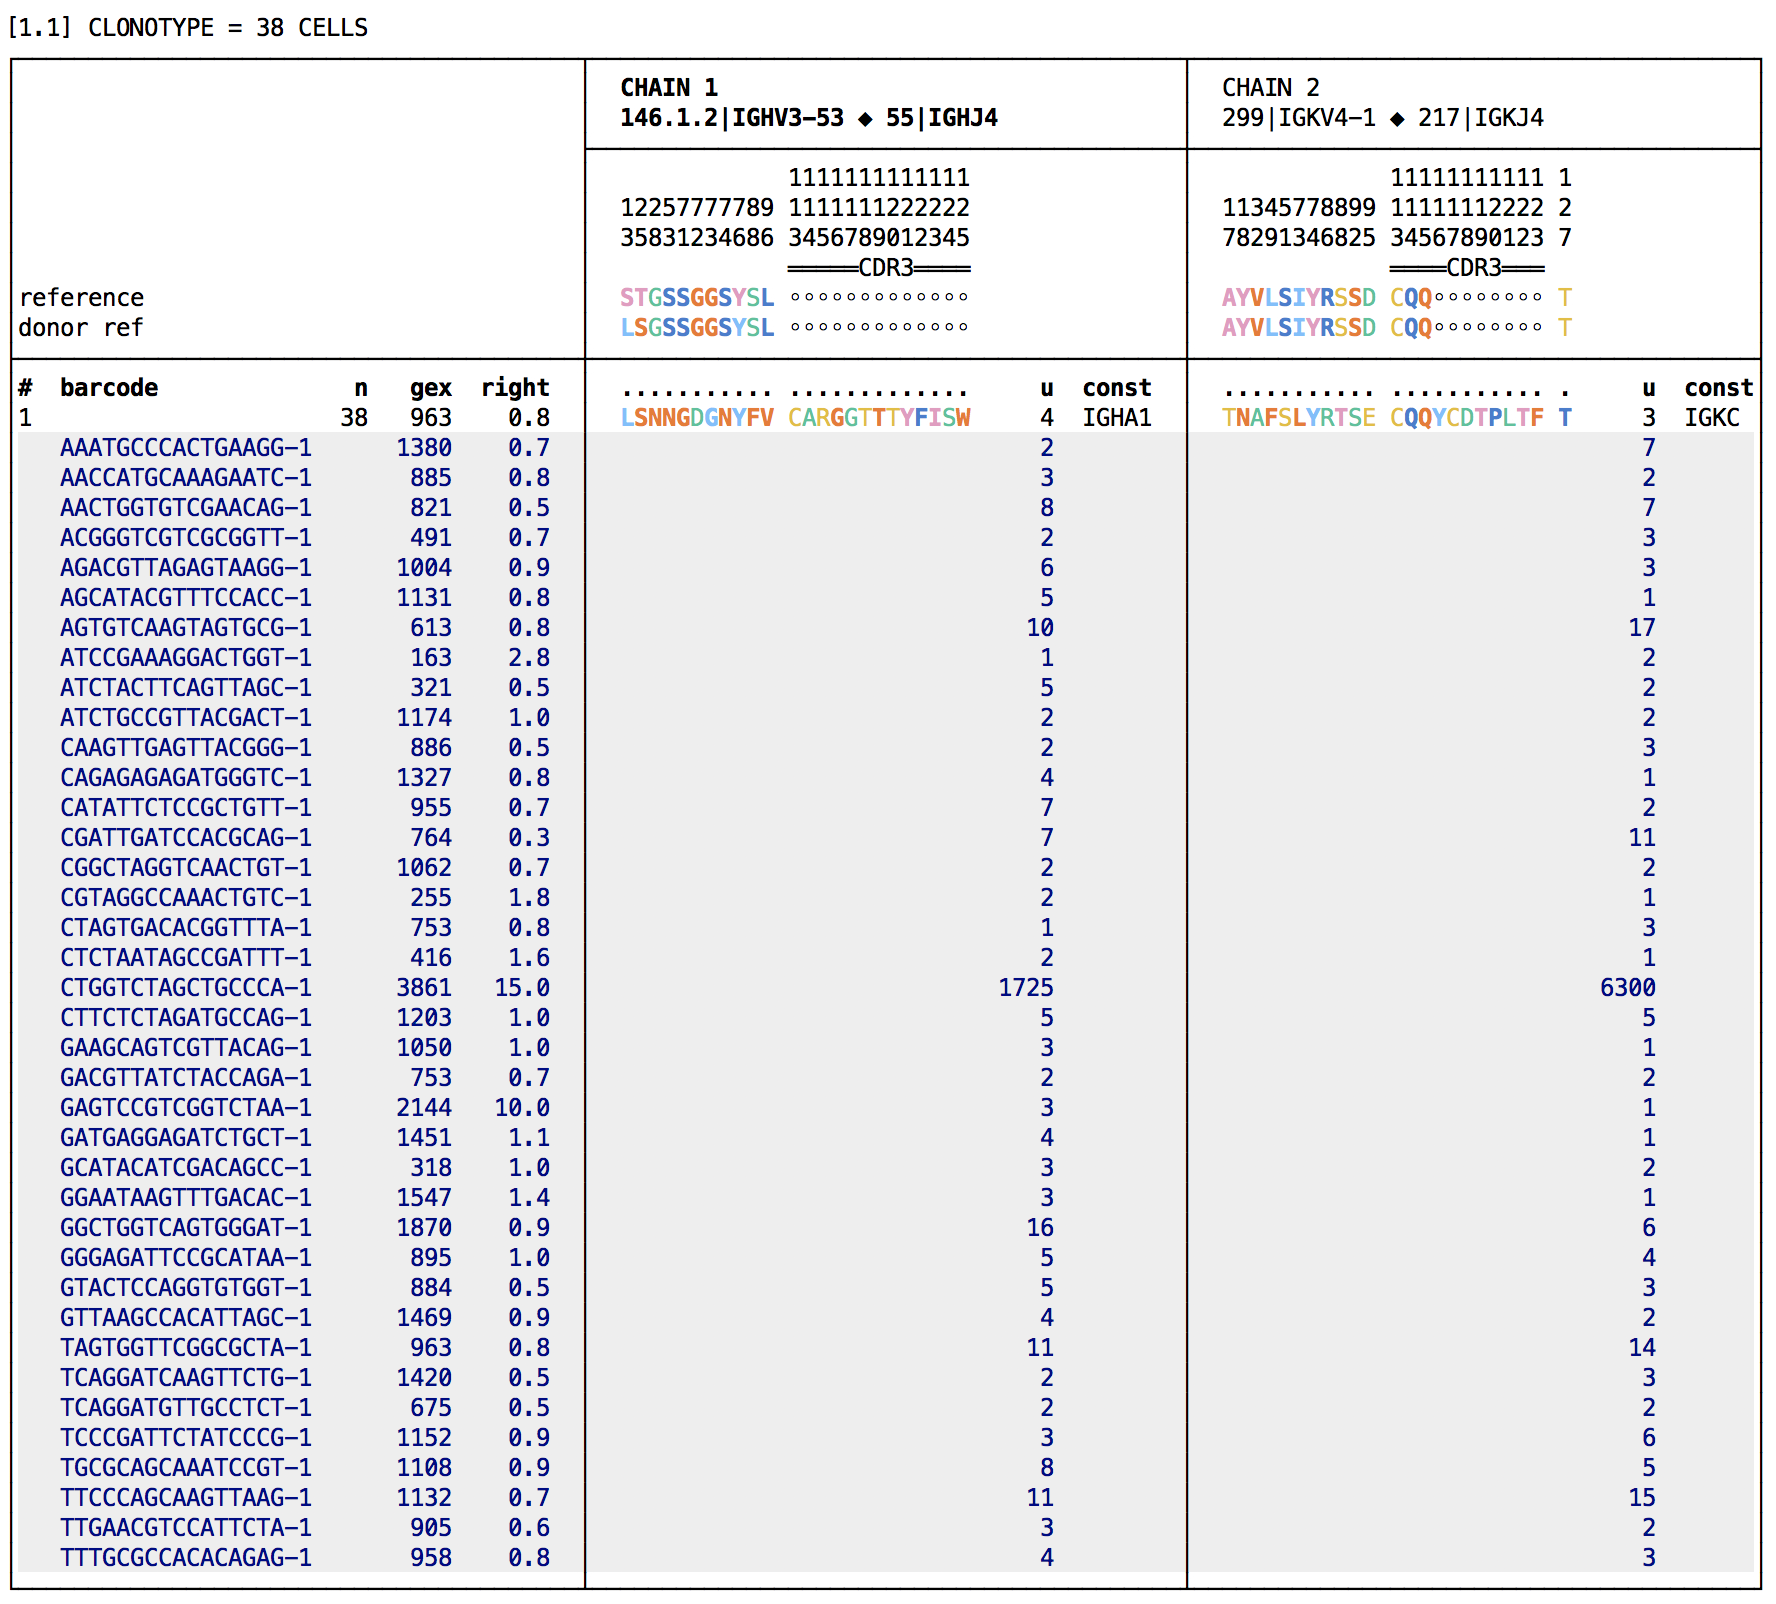
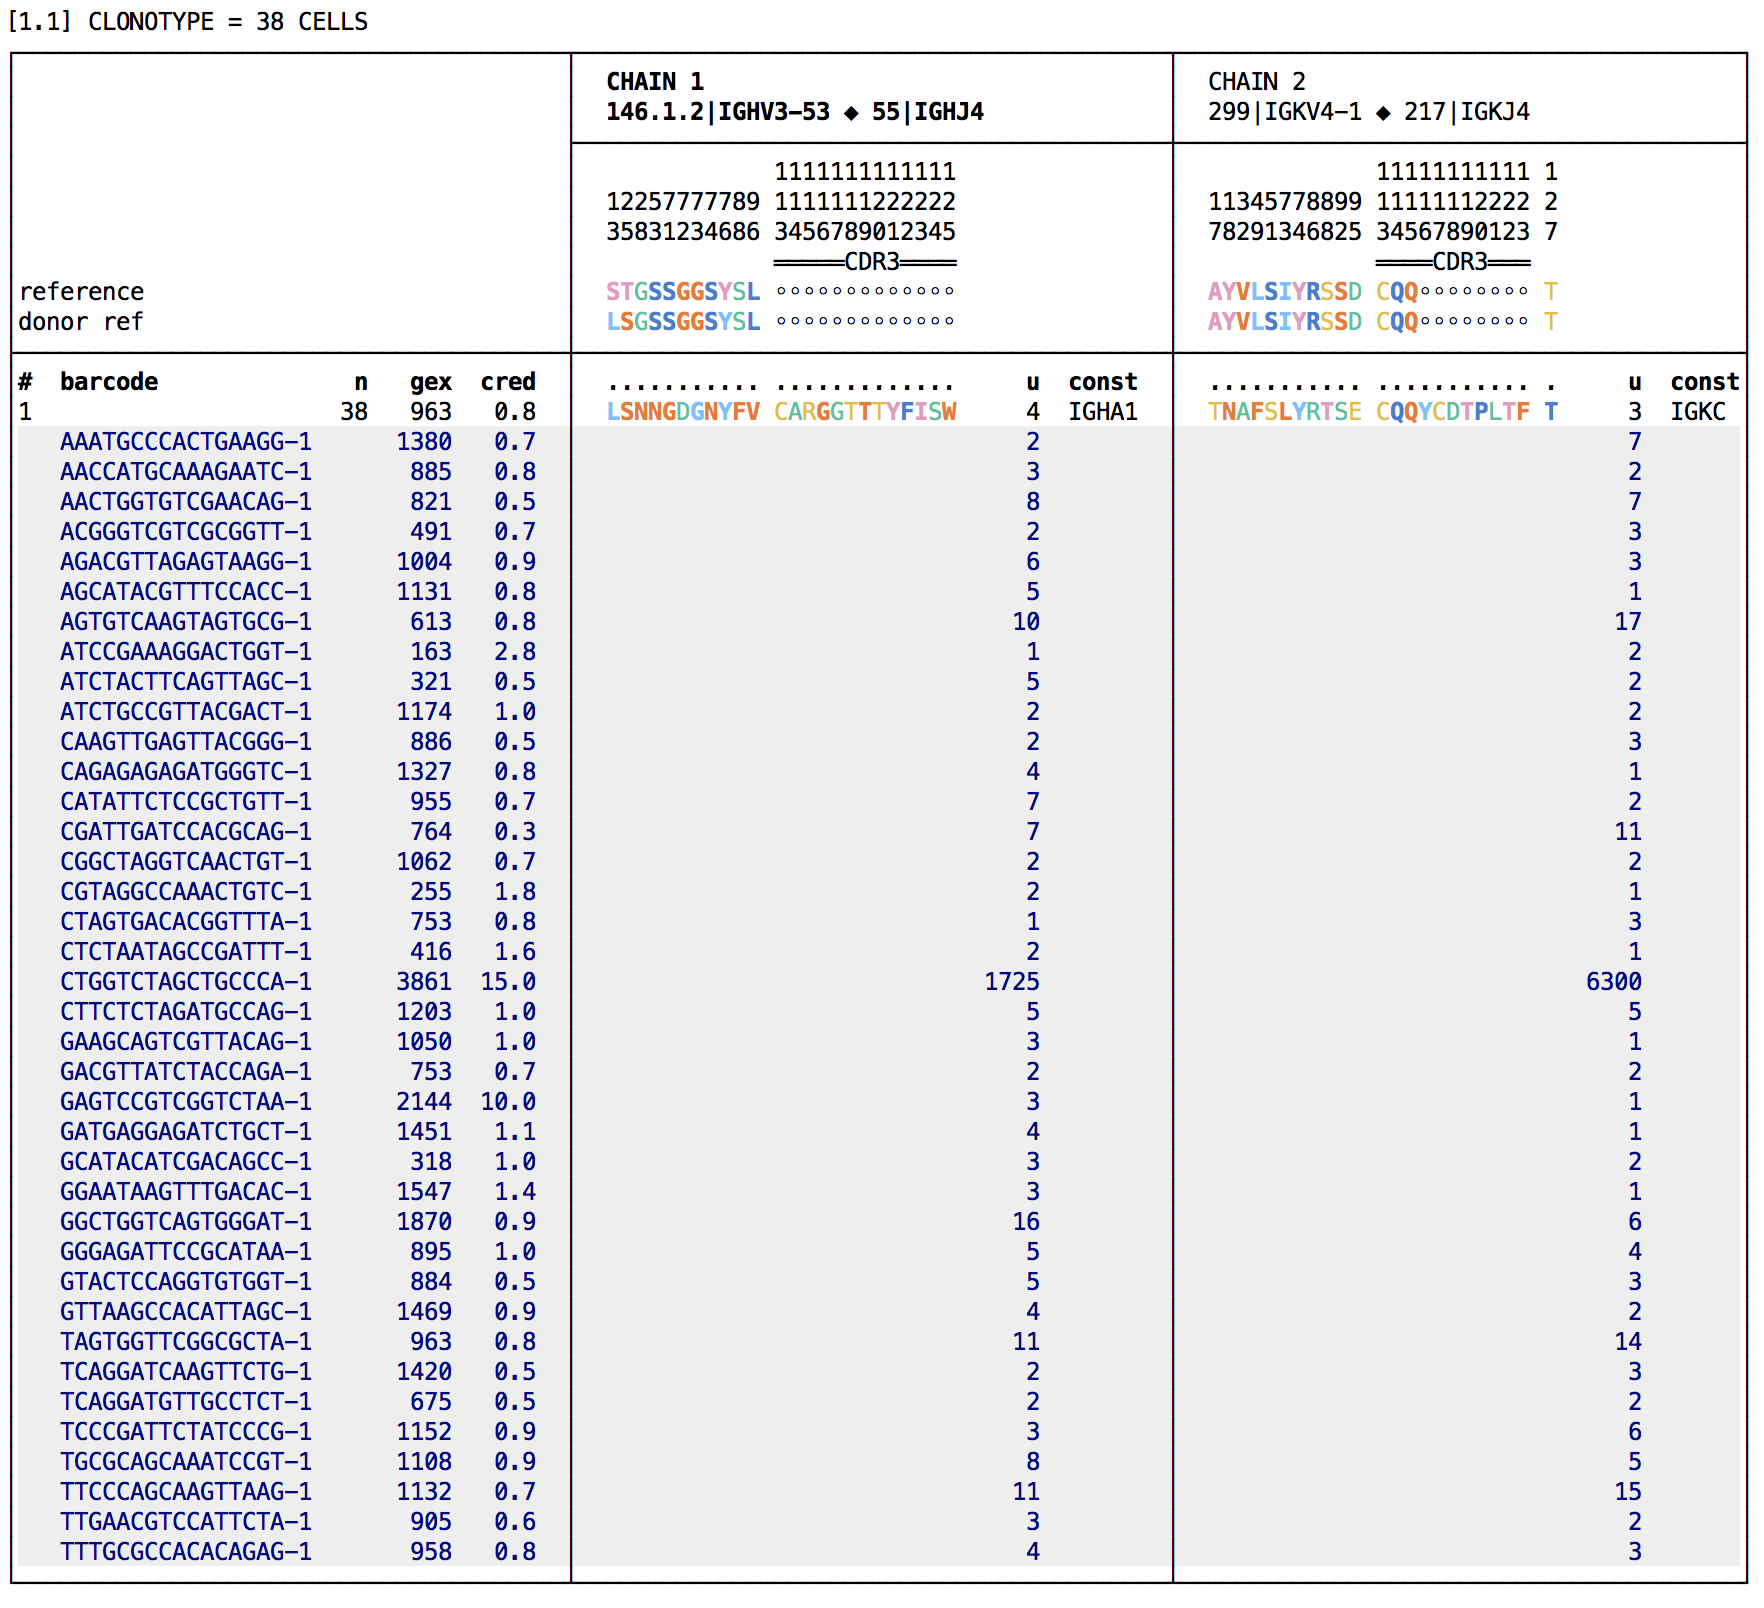
change "right" to "cred"

Changed region(s): [[0.0, 0.0, 0.9977, 0.9975]]

diff --git a/src/print_clonotypes.rs b/src/print_clonotypes.rs
@@ -470,11 +470,11 @@ pub fn print_clonotypes(
 
                 let mut stats = Vec::<(String, Vec<f64>)>::new();
 
-                // Compute "right" stats.
+                // Compute "cred" stats.
 
-                let mut right = vec![Vec::<String>::new(); lvars.len()];
+                let mut cred = vec![Vec::<String>::new(); lvars.len()];
                 for k in 0..lvars.len() {
-                    if lvars[k] == "right".to_string() {
+                    if lvars[k] == "cred".to_string() {
                         for u in 0..nexacts {
                             let clonotype_id = exacts[u];
                             let ex = &exact_clonotypes[clonotype_id];
@@ -482,7 +482,7 @@ pub fn print_clonotypes(
                                 let bc = &ex.clones[l][0].barcode;
                                 let li = ex.clones[l][0].dataset_index;
                                 if gex_info.pca[li].contains_key(&bc.clone()) {
-                                    let mut rights = 0;
+                                    let mut creds = 0;
                                     let mut z = Vec::<(f64, String)>::new();
                                     let x = &gex_info.pca[li][&bc.clone()];
                                     for y in gex_info.pca[li].iter() {
@@ -496,13 +496,13 @@ pub fn print_clonotypes(
                                     let top = n_vdj_gex[li];
                                     for i in 0..top {
                                         if bin_member(&vdj_cells[li], &z[i].1) {
-                                            rights += 1;
+                                            creds += 1;
                                         }
                                     }
-                                    let pc = 100.0 * rights as f64 / top as f64;
-                                    right[k].push(format!("{:.1}", pc));
+                                    let pc = 100.0 * creds as f64 / top as f64;
+                                    cred[k].push(format!("{:.1}", pc));
                                 } else {
-                                    right[k].push("".to_string());
+                                    cred[k].push("".to_string());
                                 }
                             }
                         }
@@ -664,8 +664,8 @@ pub fn print_clonotypes(
                                     row.push(format!("{}", cid));
                                 } else if lvars[k].starts_with("pe") && have_gex {
                                     row.push(format!("{}", pe[k][cell_count + bcl.2]));
-                                } else if lvars[k] == "right".to_string() && have_gex {
-                                    row.push(format!("{}", right[k][cell_count + bcl.2]));
+                                } else if lvars[k] == "cred".to_string() && have_gex {
+                                    row.push(format!("{}", cred[k][cell_count + bcl.2]));
                                 } else if lvars[k] == "type".to_string() && have_gex {
                                     let mut cell_type = "".to_string();
                                     if gex_info.cell_type[li].contains_key(&bc.clone()) {

diff --git a/src/print_utils2.rs b/src/print_utils2.rs
@@ -418,13 +418,13 @@ pub fn row_fill(
             lvar![i, x, format!("{}", abbrev_list(&cell_types))];
         } else if x.starts_with("pe") {
             lvar![i, x, format!("")];
-        } else if x == "right" || x == "right_cell" {
-            let mut rightsx = Vec::<f64>::new();
+        } else if x == "cred" || x == "cred_cell" {
+            let mut credsx = Vec::<f64>::new();
             for l in 0..ex.clones.len() {
                 let bc = &ex.clones[l][0].barcode;
                 let li = ex.clones[l][0].dataset_index;
                 if gex_info.pca[li].contains_key(&bc.clone()) {
-                    let mut rights = 0;
+                    let mut creds = 0;
                     let mut z = Vec::<(f64, String)>::new();
                     let x = &gex_info.pca[li][&bc.clone()];
                     for y in gex_info.pca[li].iter() {
@@ -438,25 +438,25 @@ pub fn row_fill(
                     let top = n_vdj_gex[li];
                     for i in 0..top {
                         if bin_member(&vdj_cells[li], &z[i].1) {
-                            rights += 1;
+                            creds += 1;
                         }
                     }
-                    let pc = 100.0 * rights as f64 / top as f64;
-                    rightsx.push(pc);
+                    let pc = 100.0 * creds as f64 / top as f64;
+                    credsx.push(pc);
                 }
             }
-            rightsx.sort_by(|a, b| a.partial_cmp(b).unwrap());
-            if x == "right" {
-                if rightsx.is_empty() {
+            credsx.sort_by(|a, b| a.partial_cmp(b).unwrap());
+            if x == "cred" {
+                if credsx.is_empty() {
                     lvar![i, x, format!("")];
                 } else {
-                    lvar![i, x, format!("{:.1}", rightsx[rightsx.len() / 2])];
+                    lvar![i, x, format!("{:.1}", credsx[credsx.len() / 2])];
                 }
             } else {
                 if pass == 2 {
                     let mut r = Vec::<String>::new();
-                    for j in 0..rightsx.len() {
-                        r.push(format!("{:.1}", rightsx[j]));
+                    for j in 0..credsx.len() {
+                        r.push(format!("{:.1}", credsx[j]));
                     }
                     speak!(u, x, format!("{}", r.iter().format(";")));
                 }

diff --git a/src/proc_args_check.rs b/src/proc_args_check.rs
@@ -41,8 +41,8 @@ fn check_gene_fb(ctl: &EncloneControl, gex_info: &GexInfo, to_check: &Vec<String
                 || *x == "clust".to_string()
                 || *x == "type".to_string()
                 || *x == "entropy".to_string()
-                || *x == "right".to_string()
-                || *x == "right_cell".to_string()
+                || *x == "cred".to_string()
+                || *x == "cred_cell".to_string()
             {
                 if category == "parseable" {
                     eprintln!(

diff --git a/src/print_utils1.rs b/src/print_utils1.rs
@@ -440,8 +440,8 @@ pub fn set_speakers(ctl: &EncloneControl, parseable_fields: &mut Vec<String>) {
                 || *x == "clust".to_string()
                 || *x == "type".to_string()
                 || *x == "entropy".to_string()
-                || *x == "right".to_string()
-                || *x == "right_cell".to_string()
+                || *x == "cred".to_string()
+                || *x == "cred_cell".to_string()
             {
                 continue;
             }

diff --git a/src/defs.rs b/src/defs.rs
@@ -25,8 +25,8 @@ pub const LVARS_ALLOWED: [&str; 20] = [
     "n_gex_cell",
     "n_gex",
     "clust",
-    "right",
-    "right_cell",
+    "cred",
+    "cred_cell",
     "type",
     "entropy",
     "near",
@@ -230,7 +230,7 @@ impl LinearCondition {
             "n_gex_cell",
             "n_gex",
             "clust",
-            "right",
+            "cred",
             "type",
             "gex",
             "gex_min",

diff --git a/expanded.md b/expanded.md
@@ -65,26 +65,26 @@ would have consisted of "nearly empty drops", GEMs containing just a B cell frag
 
 Now we add the option `PER_CELL`, causing data for each cell to be displayed, and we also add two
 fields to the display.  One is `gex`, the normalized count of gene expression UMIs,
-and the other is a field `right`, that is more complicated.  We will also hide the onesie
-(single chain) cells.
+and the other is a field `cred` (short for "credibility"), that is more complicated.  We will also 
+hide the onesie (single chain) cells.
 
 ```
-enclone BCR=128040 GEX=127801 CDR3=CARGGTTTYFISW PER_CELL LVARSP=gex,right MIN_CHAINS_EXACT=2
+enclone BCR=128040 GEX=127801 CDR3=CARGGTTTYFISW PER_CELL LVARSP=gex,cred MIN_CHAINS_EXACT=2
 ```
 
 <img src="img/illusory4.png" alt="illusory4" title="illusory4" width=90% />
 
-The field `right` is a measure of the extent to which cells having similar gene expression to a
+The field `cred` is a measure of the extent to which cells having similar gene expression to a
 given putative B cell are themselves B cells.  In more detail, first let n be the number of 
 VDJ cells that are also GEX cells.  Now for a given cell, we find the n GEX cells that are closest 
-to it in PCA space, and report the percent of those that are also VDJ cells.  This is `right`.  The closer this number is to 100, the more the given cell looks like a typical B cell.
+to it in PCA space, and report the percent of those that are also VDJ cells.  This is `cred`.  The closer this number is to 100, the more the given cell looks like a typical B cell.
 Conversely, a very low number makes the given cell appear suspect, although it is 
 not <i>proof</i> of such.
 
-The values of `right` vary considerably from dataset to dataset, requiring somewhat different
+The values of `cred` vary considerably from dataset to dataset, requiring somewhat different
 interpretation.  We show the distribution for this one dataset:
 
-| right  | % of B cells  |
+| cred   | % of B cells  |
 | -------| -------------:|
 |  0-20  |  9.2          |
 | 20-40  |  3.1          |
